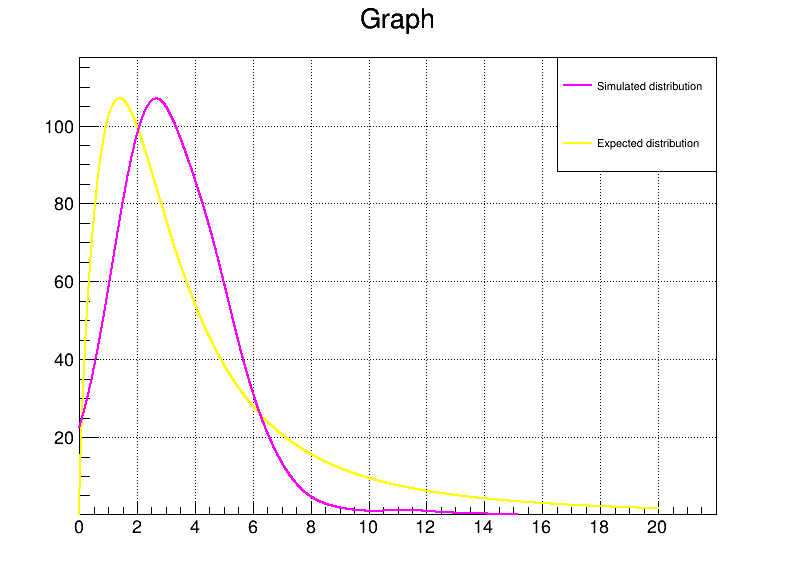
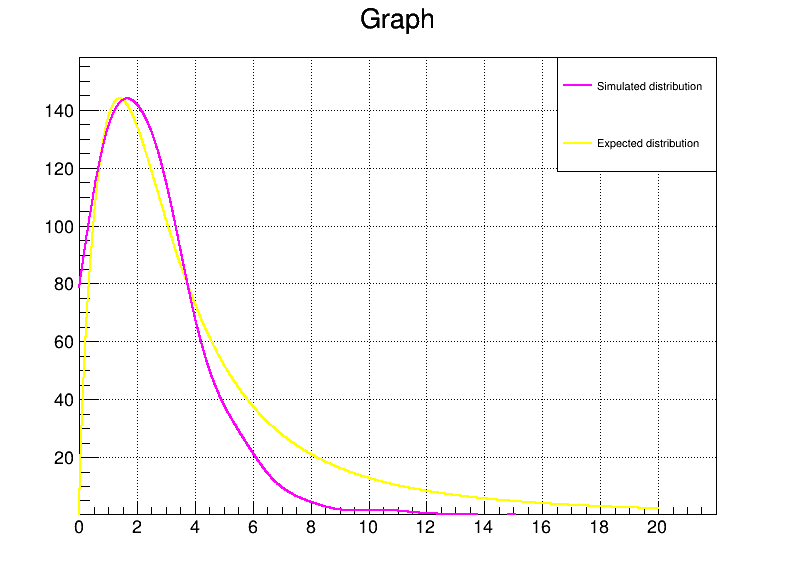
new commit

diff --git a/time_distribution_true.C b/time_distribution_true.C
@@ -14,7 +14,7 @@
   auto select_events = [&](){
     ++TotEvt;
     Bool_t IsGood = kFALSE;
-    if(TotEvt==130) {
+    if(TotEvt==71004) {
 	  IsGood = kTRUE;
     }
     return IsGood;
